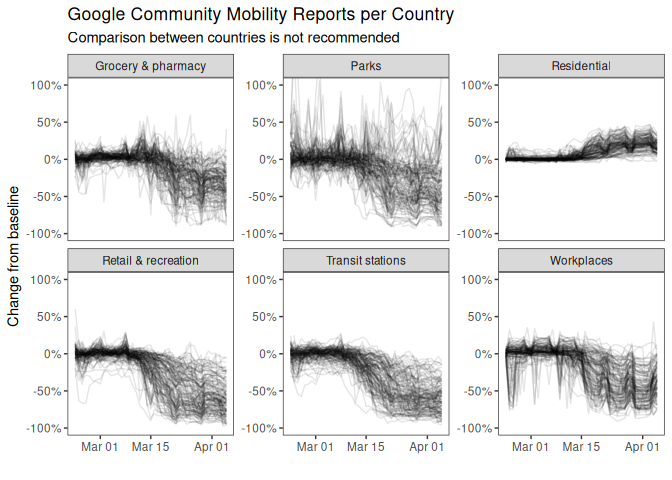
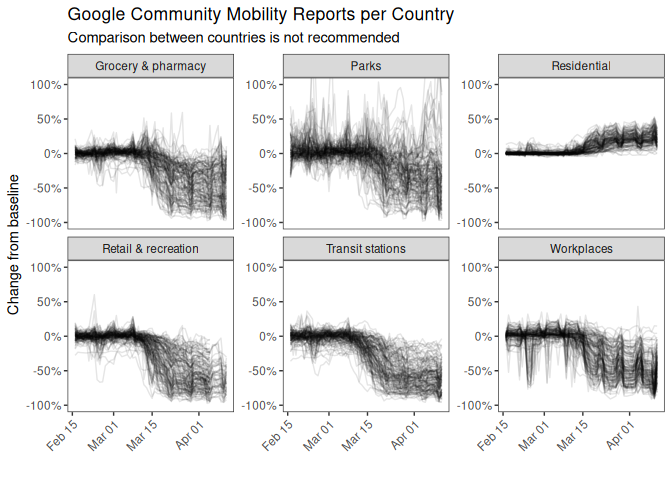
Update README

diff --git a/README.md b/README.md
@@ -7,8 +7,8 @@ Archive of data extracted from Google’s [Community Mobility
 Reports](https://www.google.com/covid19/mobility/). All countries are
 included.
 
-Last updated on the 10th of April 2020, with data up to the 5th of April
-2020.
+Last updated on the 16th of April 2020, with data up to the 11th of
+April 2020.
 
 ## Data Quality
 
@@ -34,10 +34,10 @@ changes between countries or regions.
 
 ## Data download
 
-For now, download a dated file of
-[countries](https://raw.githubusercontent.com/nacnudus/google-location-coronavirus/master/2020-04-05-country.tsv)
+Download a dated file of
+[countries](https://raw.githubusercontent.com/nacnudus/google-location-coronavirus/master/2020-04-11-country.tsv)
 or [United States
-counties](https://raw.githubusercontent.com/nacnudus/google-location-coronavirus/master/2020-04-05-region.tsv).
+counties](https://raw.githubusercontent.com/nacnudus/google-location-coronavirus/master/2020-04-11-region.tsv).
 They are tab-separated.
 
 ## Method
